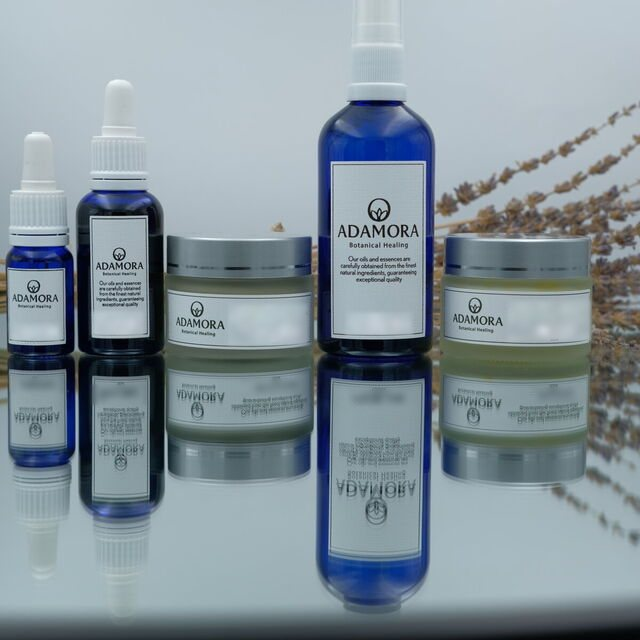
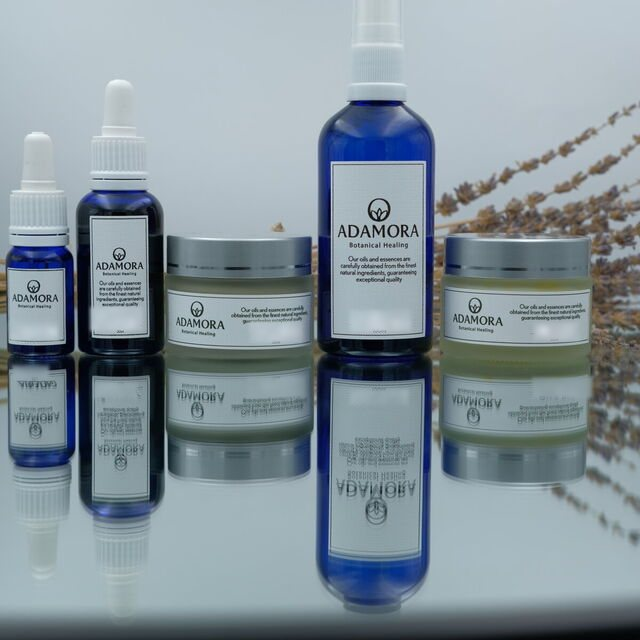
23.11 לילה: מטופלות מספרות בעיצוב של Foresta (Framer), הסרטון בראש הקליניקה, תמונות חדשות ביוגה ובעליי, מחיקת כתב היד בלבד על התוויות
Claude-Session: https://claude.ai/code/session_01DATsEa2YTV6PqXaYUVN9N4

diff --git a/site/treatments.html b/site/treatments.html
@@ -24,8 +24,8 @@
 <link rel="apple-touch-icon" href="../img/apple-touch-icon.png">
 <link rel="preload" href="../fonts/assistant-hebrew.woff2" as="font" type="font/woff2" crossorigin>
 <link rel="stylesheet" href="../style.css?v=2">
-<link rel="stylesheet" href="site.css?v=25">
-<script src="site.js?v=2" defer></script>
+<link rel="stylesheet" href="site.css?v=27">
+<script src="site.js?v=4" defer></script>
 </head>
 <body>
 <a class="skip" href="#main">דילוג לתוכן הראשי</a>
@@ -49,7 +49,8 @@
       <p class="lede">כל הטיפולים מיועדים לנשים ומתבצעים בקליניקות בתל אביב ובעמק האלה, וגם בזום.</p>
       <div class="actions"><a class="btn" href="https://wa.link/64q9ls">לתיאום שיחה</a><a class="btn ghost" href="integrated.html">הטיפול המשולב</a></div>
     </div>
-    <figure class="natural"><img fetchpriority="high" width="1100" height="1955" src="../img/s26/3254-full.jpg" alt="יובל דורון אבייב, מחייכת, יושבת על כורסה כתומה"></figure>
+    <figure class="has-video clip"><video class="clip-video" muted loop playsinline preload="metadata" poster="../img/clinic-foot-poster.jpg" aria-hidden="true"><source src="../img/clinic-foot.mp4" type="video/mp4"></video>
+      <button type="button" class="vid-toggle" aria-label="הפעלת הסרטון"><span aria-hidden="true">▶</span></button></figure>
   </div>
 </section>
 
@@ -69,18 +70,16 @@
   </div>
 </section>
 
-<section style="background: var(--sand)">
-  <div class="wrap stack"><span class="secno">4.3</span>
+<section class="tsec" style="background: var(--sand)">
+  <div class="wrap stack" style="justify-items:center;text-align:center"><span class="secno">4.3</span>
     <h2>מטופלות מספרות</h2>
-    <div class="tcar"><div class="tcar-track" tabindex="0" role="region" aria-label="מטופלות מספרות — אפשר לגלול לצדדים"><div class="testi"><p>״אני מרגישה טוב עם הדגשים התזונתיים שנתת לי. זה לא כבל אותי בתפריט משעמם. ירדה לי תדירות גלי החום, אני משתמשת בטיפות ונושמת וזה נותן תחושה ממש טובה.״</p><small>גלי · הגיעה לטיפול נטורופתי</small></div><div class="testi"><p>״אחרי חודשיים של ליווי ארומתרפי עם יובל, לא חשבתי אף פעם על טיפול מהסוג הזה והופתעתי לגלות כמה מועיל הוא היה ואיזה שינוי הוא עשה לי פיזית ופנימית גם בגוף וגם בחשיבה. הרגשתי שכל מוצר רקחת בהמון מחשבה, השקעה ואהבה. היה לך חשוב לדייק איתי את הטיפול ולהתאים לי את מה שאני מתחברת אליו וגם זה באמת עבד אחרי לא הרבה זמן! הרגשתי יותר יציבה, מאוזנת ורגועה. תודה!״</p><small>שרון · הגיעה לטיפול ארומתרפי</small></div><div class="testi"><p>״יובל הגיעה לחיי בטיימינג מושלם בזמן שהייתי בין בדיקות רפואיות וקבלת תרופות. הרגשתי בתוכי שאולי צריך להתייחס גם לעולם שבפנים. הצלחתי להכניס הרבה יותר רוגע וטוב לשגרה ואני משתדלת לתת מקום לאופציה הטבעית שעושה פלאים. היחס הכי אישי ואכפתי תודה!״</p><small>שקד · הגיעה לטיפול נטורופתי</small></div><div class="testi"><p>״ישנתי לילה רצוף פעם ראשונה אחרי הרבה מאוד זמן בזכות הטיפות שקיבלתי ממך. מודה לך״</p><small>רונה · הגיעה לטיפול בפרחי באך</small></div><div class="testi"><p>״לא יודעת איך להודות לך, בחיי את לא מבינה מה זה עשה לי היום, אני בן אדם אחר, איזה עוצמות מטורפות!״</p><small>עדן · הגיעה לטיפול רייקי</small></div><div class="testi"><p>״היי יובל. רציתי להגיד לך שחל שיפור ממש מאז הטיפול ביום ראשון. העצירות עברה לי, מרגישה טוב יותר ומשוחררת יותר, ממש מאותו היום הכל התאזן!״</p><small>אלה · הגיעה לטיפול רפלקסולוגי</small></div><div class="testi"><p>״בשבוע אחד ראיתי שינוי מטורף באקנה שלי. הפנים נקיות והמוצרים מדהימים! בימים האחרונים פשוט לא יוצאים פצעים חדשים. אפילו בווסת לא יצא פצע אחד, זה בחיים לא קרה.״</p><small>לי · הגיעה לטיפול ארומתרפי</small></div><div class="testi"><p>״אני חייבת לשתף אותך שאני מתמידה לקחת את פרחי הבאך כל יום 3 פעמים. מרגישה נינוחה ורגועה יותר, באנרגיות טובות יותר! אני בעבודה בלחץ פי מליון ועדיין מצליחה לשמור על רוגע יחסית אז תודה לך״</p><small>נועה · הגיעה לטיפול בפרחי באך</small></div><div class="testi"><p>״זה עבד כמו קסם! חודשים ניסיתי להיפטר מהקשקשים ואף שמפו לא עזר עד שקיבלתי את בקבוקון הקסם שלך. תוך שלושה שבועות הכל עבר. וגם השיער יותר נעים כל פעם אחרי שאני משתמש בשמן. תודה!״</p><small>אלון · הגיע לטיפול ארומתרפי</small></div><div class="testi"><p>״רציתי להגיד לך שהמחזור שלי כל כך שונה ופחות נוראי מאז שיש לי את השמן שלך! אני בדרך כלל סובלת מאוד וזה כל כך עזר לי הפעם״</p><small>נעם · הגיעה לטיפול ארומתרפי</small></div><div class="testi"><p>״רציתי להגיד לך שתוך יומיים הידיים שלי השתפרו בטירוף! כל הנפיחות ירדה, האדמומיות נעלמה והיובש ממש משתפר. מזל שניסיתי קודם את קרם הידיים שלך ולא ישר שמתי את הקורטיזון.״</p><small>מאי · הגיעה לטיפול ארומתרפי</small></div><div class="testi"><p>״חייבת לעדכן אותך שהשתמשתי בלילות האחרונים בשמן שקיבלנו במתנה בסדנה שלך וההשפעה שלו ממש ניכרת. אני כבר תקופה ארוכה סובלת מחריקות שיניים בלילה ובימים האחרונים זה נעלם. מודה שהייתי סקפטית לגבי זה וממש שמחתי לגלות שטעיתי ושזה עוזר! תודה!״</p><small>נעמה · הגיעה לסדנת ארומתרפיה</small></div><div class="testi"><p>״אני מרגישה נורא לחוצה בגלל המבחן הבא ואחרי המקלחת שמתי את שמן הגוף והדלקתי מבער עם השמנים שרקחת לי. זה ממש משפר לי את ההרגשה״</p><small>שי · הגיעה לטיפול ארומתרפי</small></div></div><div class="tcar-nav"><button type="button" class="tcar-prev" aria-label="להמלצה הקודמת"><svg viewBox="0 0 24 24" width="20" height="20" aria-hidden="true" focusable="false"><path d="M9 5l7 7-7 7" fill="none" stroke="currentColor" stroke-width="1.8" stroke-linecap="round" stroke-linejoin="round"/></svg></button><button type="button" class="tcar-next" aria-label="להמלצה הבאה"><svg viewBox="0 0 24 24" width="20" height="20" aria-hidden="true" focusable="false"><path d="M15 5l-7 7 7 7" fill="none" stroke="currentColor" stroke-width="1.8" stroke-linecap="round" stroke-linejoin="round"/></svg></button></div></div>
   </div>
+  <div class="tcar"><div class="tcar-track" tabindex="0" role="region" aria-label="מטופלות מספרות — אפשר לגלול לצדדים"><div class="testi"><p>״אני מרגישה טוב עם הדגשים התזונתיים שנתת לי. זה לא כבל אותי בתפריט משעמם. ירדה לי תדירות גלי החום, אני משתמשת בטיפות ונושמת וזה נותן תחושה ממש טובה.״</p><small>גלי · הגיעה לטיפול נטורופתי</small></div><div class="testi"><p>״אחרי חודשיים של ליווי ארומתרפי עם יובל, לא חשבתי אף פעם על טיפול מהסוג הזה והופתעתי לגלות כמה מועיל הוא היה ואיזה שינוי הוא עשה לי פיזית ופנימית גם בגוף וגם בחשיבה. הרגשתי שכל מוצר רקחת בהמון מחשבה, השקעה ואהבה. היה לך חשוב לדייק איתי את הטיפול ולהתאים לי את מה שאני מתחברת אליו וגם זה באמת עבד אחרי לא הרבה זמן! הרגשתי יותר יציבה, מאוזנת ורגועה. תודה!״</p><small>שרון · הגיעה לטיפול ארומתרפי</small></div><div class="testi"><p>״יובל הגיעה לחיי בטיימינג מושלם בזמן שהייתי בין בדיקות רפואיות וקבלת תרופות. הרגשתי בתוכי שאולי צריך להתייחס גם לעולם שבפנים. הצלחתי להכניס הרבה יותר רוגע וטוב לשגרה ואני משתדלת לתת מקום לאופציה הטבעית שעושה פלאים. היחס הכי אישי ואכפתי תודה!״</p><small>שקד · הגיעה לטיפול נטורופתי</small></div><div class="testi"><p>״ישנתי לילה רצוף פעם ראשונה אחרי הרבה מאוד זמן בזכות הטיפות שקיבלתי ממך. מודה לך״</p><small>רונה · הגיעה לטיפול בפרחי באך</small></div><div class="testi"><p>״לא יודעת איך להודות לך, בחיי את לא מבינה מה זה עשה לי היום, אני בן אדם אחר, איזה עוצמות מטורפות!״</p><small>עדן · הגיעה לטיפול רייקי</small></div><div class="testi"><p>״היי יובל. רציתי להגיד לך שחל שיפור ממש מאז הטיפול ביום ראשון. העצירות עברה לי, מרגישה טוב יותר ומשוחררת יותר, ממש מאותו היום הכל התאזן!״</p><small>אלה · הגיעה לטיפול רפלקסולוגי</small></div><div class="testi"><p>״בשבוע אחד ראיתי שינוי מטורף באקנה שלי. הפנים נקיות והמוצרים מדהימים! בימים האחרונים פשוט לא יוצאים פצעים חדשים. אפילו בווסת לא יצא פצע אחד, זה בחיים לא קרה.״</p><small>לי · הגיעה לטיפול ארומתרפי</small></div><div class="testi"><p>״אני חייבת לשתף אותך שאני מתמידה לקחת את פרחי הבאך כל יום 3 פעמים. מרגישה נינוחה ורגועה יותר, באנרגיות טובות יותר! אני בעבודה בלחץ פי מליון ועדיין מצליחה לשמור על רוגע יחסית אז תודה לך״</p><small>נועה · הגיעה לטיפול בפרחי באך</small></div><div class="testi"><p>״זה עבד כמו קסם! חודשים ניסיתי להיפטר מהקשקשים ואף שמפו לא עזר עד שקיבלתי את בקבוקון הקסם שלך. תוך שלושה שבועות הכל עבר. וגם השיער יותר נעים כל פעם אחרי שאני משתמש בשמן. תודה!״</p><small>אלון · הגיע לטיפול ארומתרפי</small></div><div class="testi"><p>״רציתי להגיד לך שהמחזור שלי כל כך שונה ופחות נוראי מאז שיש לי את השמן שלך! אני בדרך כלל סובלת מאוד וזה כל כך עזר לי הפעם״</p><small>נעם · הגיעה לטיפול ארומתרפי</small></div><div class="testi"><p>״רציתי להגיד לך שתוך יומיים הידיים שלי השתפרו בטירוף! כל הנפיחות ירדה, האדמומיות נעלמה והיובש ממש משתפר. מזל שניסיתי קודם את קרם הידיים שלך ולא ישר שמתי את הקורטיזון.״</p><small>מאי · הגיעה לטיפול ארומתרפי</small></div><div class="testi"><p>״חייבת לעדכן אותך שהשתמשתי בלילות האחרונים בשמן שקיבלנו במתנה בסדנה שלך וההשפעה שלו ממש ניכרת. אני כבר תקופה ארוכה סובלת מחריקות שיניים בלילה ובימים האחרונים זה נעלם. מודה שהייתי סקפטית לגבי זה וממש שמחתי לגלות שטעיתי ושזה עוזר! תודה!״</p><small>נעמה · הגיעה לסדנת ארומתרפיה</small></div><div class="testi"><p>״אני מרגישה נורא לחוצה בגלל המבחן הבא ואחרי המקלחת שמתי את שמן הגוף והדלקתי מבער עם השמנים שרקחת לי. זה ממש משפר לי את ההרגשה״</p><small>שי · הגיעה לטיפול ארומתרפי</small></div></div><div class="tcar-nav"><button type="button" class="tcar-prev" aria-label="להמלצה הקודמת"><svg viewBox="0 0 24 24" width="20" height="20" aria-hidden="true" focusable="false"><path d="M9 5l7 7-7 7" fill="none" stroke="currentColor" stroke-width="1.8" stroke-linecap="round" stroke-linejoin="round"/></svg></button><button type="button" class="tcar-next" aria-label="להמלצה הבאה"><svg viewBox="0 0 24 24" width="20" height="20" aria-hidden="true" focusable="false"><path d="M15 5l-7 7 7 7" fill="none" stroke="currentColor" stroke-width="1.8" stroke-linecap="round" stroke-linejoin="round"/></svg></button></div></div>
 </section>
 
 <section>
-  <div class="wrap faq-pair"><span class="secno">4.4</span>
-    <figure class="has-video clip"><video class="clip-video" muted loop playsinline preload="none" poster="../img/clinic-foot-poster.jpg" aria-hidden="true"><source src="../img/clinic-foot.mp4" type="video/mp4"></video>
-      <button type="button" class="vid-toggle" aria-label="הפעלת הסרטון"><span aria-hidden="true">▶</span></button></figure>
-    <div class="stack">
+  <div class="wrap"><span class="secno">4.4</span>
+    <div class="stack" style="max-width:760px">
     <h2>שאלות ותשובות</h2>
     <div>
       <details open><summary>איך בוחרים טיפול?</summary><p>בוחרות יחד. אנחנו מתחילות בשיחה קצרה, ומשם אני מציעה מה מתאים — לפעמים טיפול אחד, לפעמים שילוב.</p></details>

diff --git a/site/yoga.html b/site/yoga.html
@@ -24,8 +24,8 @@
 <link rel="apple-touch-icon" href="../img/apple-touch-icon.png">
 <link rel="preload" href="../fonts/assistant-hebrew.woff2" as="font" type="font/woff2" crossorigin>
 <link rel="stylesheet" href="../style.css?v=2">
-<link rel="stylesheet" href="site.css?v=25">
-<script src="site.js?v=2" defer></script>
+<link rel="stylesheet" href="site.css?v=27">
+<script src="site.js?v=4" defer></script>
 </head>
 <body>
 <a class="skip" href="#main">דילוג לתוכן הראשי</a>
@@ -62,7 +62,7 @@
       <article class="door"><img loading="lazy" width="700" height="525" src="../img/y-08-16.jpg" alt="האטה יוגה"><div class="body"><h3>האטה יוגה</h3><p>סגנון מדויק ועדין, המתאים לכל גיל ורמה. בתרגול הפיזי התנוחות מתבצעות בקצב איטי, תוך הקשבה לגוף והעמקת המודעות. הדגש הוא על יציבה נכונה, גמישות, חיזוק והרפיה, בשילוב טכניקות נשימה מודעת.</p><a class="btn small ghost" href="workshops.html#lead">להזמנת סדנה</a></div></article>
       <article class="door"><img loading="lazy" width="700" height="700" src="../img/y-11-12.jpg" alt="יוגה תרפיה"><div class="body"><h3>יוגה תרפיה</h3><p>משלבת את חכמת היוגה העתיקה עם הבנה מעמיקה של הגוף. מתאימה במיוחד למתמודדות עם כאבים, מתח, חרדה או אתגרים פיזיים ורגשיים אחרים. כל מפגש מותאם לצרכים האישיים של המתרגלת.</p><a class="btn small ghost" href="workshops.html#lead">להזמנת סדנה</a></div></article>
       <article class="door"><img width="700" height="525" src="../img/y-11-18.jpg" alt="יובל מעבירה מפגש לקבוצה בגיל השלישי" loading="lazy"><div class="body"><h3>יוגה על כיסא</h3><p>תרגול נגיש ועדין שמתבצע ברובו או בכולו בישיבה על כיסא, לפי יכולות המשתתפים. לשיפור יציבות ושיווי משקל, שיפור טווחי תנועה וגמישות, הפחתת מתחים ונשימה מודעת.</p><p class="small">תרגול בקבוצה קבועה — למשל במועדון הוותיקים.</p><a class="btn small ghost" href="workshops.html#lead">להזמנת סדנה</a></div></article>
-      <article class="door"><img width="1200" height="800" src="../img/yoga-smile.jpg" alt="יובל בתרגול יוגה" loading="lazy"><div class="body"><h3>תרגול אישי</h3><p>בתרגול אישי יש מקום לדברים שדורשים תשומת לב אישית — כאב או פציעה מסוימים, מחלה כרונית או מצב רפואי, ומה שחשוב לך לעבוד עליו. כל שיעור נבנה סביב הגוף שלך ומה שהוא צריך באותו יום.</p><p class="small"><b>על מה נעבוד יחד:</b> שיפור היציבה והגמישות · הפחתת מתחים וכאבים · העמקת הקשר בין הגוף והנפש · למידת כלים לאיזון והרגעה · פיתוח תרגול אישי מותאם לך.</p><p class="small">לנשים, באזור עמק האלה — אצלי או בבית המתרגלת — וגם בקליניקה שלי בתל אביב.</p><a class="btn small" href="https://wa.link/64q9ls">לתיאום תרגול אישי</a></div></article>
+      <article class="door"><img width="1200" height="800" src="../img/yoga-personal.jpg" alt="יובל מריחה שמן מכפות ידיה, בגינה" loading="lazy"><div class="body"><h3>תרגול אישי</h3><p>בתרגול אישי יש מקום לדברים שדורשים תשומת לב אישית — כאב או פציעה מסוימים, מחלה כרונית או מצב רפואי, ומה שחשוב לך לעבוד עליו. כל שיעור נבנה סביב הגוף שלך ומה שהוא צריך באותו יום.</p><p class="small"><b>על מה נעבוד יחד:</b> שיפור היציבה והגמישות · הפחתת מתחים וכאבים · העמקת הקשר בין הגוף והנפש · למידת כלים לאיזון והרגעה · פיתוח תרגול אישי מותאם לך.</p><p class="small">לנשים, באזור עמק האלה — אצלי או בבית המתרגלת — וגם בקליניקה שלי בתל אביב.</p><a class="btn small" href="https://wa.link/64q9ls">לתיאום תרגול אישי</a></div></article>
     </div>
   </div>
 </section>

diff --git a/site/ריפוי-דרך-כפות-הרגליים/index.html b/site/ריפוי-דרך-כפות-הרגליים/index.html
@@ -26,8 +26,8 @@
 <link rel="apple-touch-icon" href="../../img/apple-touch-icon.png">
 <link rel="preload" href="../../fonts/assistant-hebrew.woff2" as="font" type="font/woff2" crossorigin>
 <link rel="stylesheet" href="../../style.css?v=2">
-<link rel="stylesheet" href="../site.css?v=25">
-<script src="../site.js?v=2" defer></script>
+<link rel="stylesheet" href="../site.css?v=27">
+<script src="../site.js?v=4" defer></script>
 <script type="application/ld+json">{"@context": "https://schema.org", "@type": "BlogPosting", "headline": "ריפוי דרך כפות הרגליים: איך טיפול רפלקסולוגי מחזיר את הגוף לאיזון?", "description": "טיפול רפלקסולוגיה הוא דרך טבעית, עמוקה ונעימה לעזור לגוף לעצור, לפרוק מתחים ולהפעיל מחדש את מנגנוני הריפוי הטבעיים שלו – וגם תרגיל ביתי קטן להרגעה.", "inLanguage": "he", "mainEntityOfPage": "https://adamora.co.il/%D7%A8%D7%99%D7%A4%D7%95%D7%99-%D7%93%D7%A8%D7%9A-%D7%9B%D7%A4%D7%95%D7%AA-%D7%94%D7%A8%D7%92%D7%9C%D7%99%D7%99%D7%9D/", "url": "https://adamora.co.il/%D7%A8%D7%99%D7%A4%D7%95%D7%99-%D7%93%D7%A8%D7%9A-%D7%9B%D7%A4%D7%95%D7%AA-%D7%94%D7%A8%D7%92%D7%9C%D7%99%D7%99%D7%9D/", "image": ["https://adamora.co.il/img/art/reflex-og.jpg", "https://adamora.co.il/img/art/reflex.jpg"], "datePublished": "2025-04-24T08:54:03+00:00", "dateModified": "2026-11-15T20:00:00+02:00", "author": {"@type": "Person", "@id": "https://adamora.co.il/about.html#yuval", "name": "יובל דורון אבייב", "url": "https://adamora.co.il/about.html", "jobTitle": "נטורופתית מוסמכת, מטפלת הוליסטית, מורה ליוגה ומנחת סדנאות"}, "publisher": {"@type": "Organization", "@id": "https://adamora.co.il/#org", "name": "אדמורה", "alternateName": "Adamora", "url": "https://adamora.co.il/", "logo": {"@type": "ImageObject", "url": "https://adamora.co.il/img/logo-h.png"}}, "about": {"@type": "Thing", "name": "רפלקסולוגיה"}}</script>
 <script type="application/ld+json">{"@context": "https://schema.org", "@type": "BreadcrumbList", "itemListElement": [{"@type": "ListItem", "position": 1, "name": "דף הבית", "item": "https://adamora.co.il/"}, {"@type": "ListItem", "position": 2, "name": "בלוג", "item": "https://adamora.co.il/blog.html"}, {"@type": "ListItem", "position": 3, "name": "ריפוי דרך כפות הרגליים: איך טיפול רפלקסולוגי מחזיר את הגוף לאיזון?", "item": "https://adamora.co.il/%D7%A8%D7%99%D7%A4%D7%95%D7%99-%D7%93%D7%A8%D7%9A-%D7%9B%D7%A4%D7%95%D7%AA-%D7%94%D7%A8%D7%92%D7%9C%D7%99%D7%99%D7%9D/"}]}</script>
 </head>

diff --git a/site/ארומתרפיה-והפרעות-קשב-וריכוז/index.html b/site/ארומתרפיה-והפרעות-קשב-וריכוז/index.html
@@ -26,8 +26,8 @@
 <link rel="apple-touch-icon" href="../../img/apple-touch-icon.png">
 <link rel="preload" href="../../fonts/assistant-hebrew.woff2" as="font" type="font/woff2" crossorigin>
 <link rel="stylesheet" href="../../style.css?v=2">
-<link rel="stylesheet" href="../site.css?v=25">
-<script src="../site.js?v=2" defer></script>
+<link rel="stylesheet" href="../site.css?v=27">
+<script src="../site.js?v=4" defer></script>
 <script type="application/ld+json">{"@context": "https://schema.org", "@type": "BlogPosting", "headline": "מבט ארומתרפי על קשב וריכוז", "description": "פעמים רבות, המפתח לריכוז הוא דווקא הרגעה. מבט ארומתרפי על קשב וריכוז אצל ילדים, סטודנטים ומבוגרים – ואיך משלבים שמנים אתריים בשגרת היומיום.", "inLanguage": "he", "mainEntityOfPage": "https://adamora.co.il/%D7%90%D7%A8%D7%95%D7%9E%D7%AA%D7%A8%D7%A4%D7%99%D7%94-%D7%95%D7%94%D7%A4%D7%A8%D7%A2%D7%95%D7%AA-%D7%A7%D7%A9%D7%91-%D7%95%D7%A8%D7%99%D7%9B%D7%95%D7%96/", "url": "https://adamora.co.il/%D7%90%D7%A8%D7%95%D7%9E%D7%AA%D7%A8%D7%A4%D7%99%D7%94-%D7%95%D7%94%D7%A4%D7%A8%D7%A2%D7%95%D7%AA-%D7%A7%D7%A9%D7%91-%D7%95%D7%A8%D7%99%D7%9B%D7%95%D7%96/", "image": ["https://adamora.co.il/img/art/adhd-og.jpg", "https://adamora.co.il/img/art/adhd.jpg"], "datePublished": "2025-04-24T08:13:16+00:00", "dateModified": "2026-11-15T20:00:00+02:00", "author": {"@type": "Person", "@id": "https://adamora.co.il/about.html#yuval", "name": "יובל דורון אבייב", "url": "https://adamora.co.il/about.html", "jobTitle": "נטורופתית מוסמכת, מטפלת הוליסטית, מורה ליוגה ומנחת סדנאות"}, "publisher": {"@type": "Organization", "@id": "https://adamora.co.il/#org", "name": "אדמורה", "alternateName": "Adamora", "url": "https://adamora.co.il/", "logo": {"@type": "ImageObject", "url": "https://adamora.co.il/img/logo-h.png"}}, "about": {"@type": "Thing", "name": "ארומתרפיה"}}</script>
 <script type="application/ld+json">{"@context": "https://schema.org", "@type": "BreadcrumbList", "itemListElement": [{"@type": "ListItem", "position": 1, "name": "דף הבית", "item": "https://adamora.co.il/"}, {"@type": "ListItem", "position": 2, "name": "בלוג", "item": "https://adamora.co.il/blog.html"}, {"@type": "ListItem", "position": 3, "name": "מבט ארומתרפי על קשב וריכוז", "item": "https://adamora.co.il/%D7%90%D7%A8%D7%95%D7%9E%D7%AA%D7%A8%D7%A4%D7%99%D7%94-%D7%95%D7%94%D7%A4%D7%A8%D7%A2%D7%95%D7%AA-%D7%A7%D7%A9%D7%91-%D7%95%D7%A8%D7%99%D7%9B%D7%95%D7%96/"}]}</script>
 </head>

diff --git a/site/site.css b/site/site.css
@@ -355,12 +355,21 @@ footer .wrap > span:last-child{order:0}
 .car-nav button,.tcar-nav button{width:48px;height:48px;border-radius:999px;border:1px solid var(--line);background:var(--card);color:var(--forest);cursor:pointer;display:grid;place-items:center;box-shadow:0 2px 10px rgba(16,68,4,.08);transition:background-color .2s,color .2s,border-color .2s}
 .car-nav button:hover,.tcar-nav button:hover{background:var(--forest);color:#fff;border-color:var(--forest)}
 /* clinic testimonials: one in front, the neighbours faded at the sides */
-.tcar-track{display:flex;align-items:flex-start;gap:18px;overflow-x:auto;scroll-snap-type:x mandatory;scrollbar-width:none;padding:8px calc((100% - min(560px,84%)) / 2) 12px;-webkit-overflow-scrolling:touch}
+/* clinic testimonials — modelled on the Foresta Framer template (foresttherapy.framer.ai): white rounded cards in a row,
+   the middle three full, the outer ones smaller and faded, running off both edges of the page */
+.tsec{overflow:hidden}
+.tcar{margin-top:28px}
+.tcar-track{display:flex;align-items:center;gap:24px;overflow-x:auto;scroll-snap-type:x mandatory;scrollbar-width:none;padding:8px calc(50% - 160px) 16px;-webkit-overflow-scrolling:touch}
 .tcar-track::-webkit-scrollbar{display:none}
 .tcar-track:focus-visible{outline:2px solid var(--forest);outline-offset:4px;border-radius:14px}
-.tcar .testi{flex:0 0 min(560px,84%);scroll-snap-align:center;opacity:.35;transform:scale(.94);transition:opacity .35s,transform .35s;cursor:pointer}
-.tcar .testi.on{opacity:1;transform:none;cursor:auto}
-.tcar-nav{display:flex;justify-content:center;gap:12px;margin-top:6px}
+.tcar .testi{flex:0 0 320px;scroll-snap-align:center;border:0;border-radius:32px;padding:32px;font-size:16px;line-height:1.55;color:var(--ink-soft);gap:16px;opacity:.6;transform:scale(.8);transition:opacity .35s,transform .35s;cursor:pointer}
+.tcar .testi p{margin:0}
+.tcar .testi small{color:var(--ink);font-weight:600;font-size:15px}
+.tcar .testi.on,.tcar .testi.near{opacity:1;transform:none}
+.tcar .testi.on{cursor:auto}
+@media (max-width:760px){.tcar .testi{flex-basis:min(280px,72vw)}.tcar-track{padding-inline:calc(50% - min(140px,36vw))}.tcar .testi.near{opacity:.6;transform:scale(.8)}}
+.tcar-nav{display:flex;justify-content:center;gap:12px;margin-top:20px}
+.hero figure.clip{width:100%;max-width:320px;justify-self:center}
 @media (prefers-reduced-motion:reduce){.tcar .testi{transition:none}}
 /* workshops: the client logos as their own block, with room above and below */
 .clients{background:var(--sand);padding-block:56px}

diff --git a/site/מבט-הוליסטי-על-אקנה/index.html b/site/מבט-הוליסטי-על-אקנה/index.html
@@ -26,8 +26,8 @@
 <link rel="apple-touch-icon" href="../../img/apple-touch-icon.png">
 <link rel="preload" href="../../fonts/assistant-hebrew.woff2" as="font" type="font/woff2" crossorigin>
 <link rel="stylesheet" href="../../style.css?v=2">
-<link rel="stylesheet" href="../site.css?v=25">
-<script src="../site.js?v=2" defer></script>
+<link rel="stylesheet" href="../site.css?v=27">
+<script src="../site.js?v=4" defer></script>
 <script type="application/ld+json">{"@context": "https://schema.org", "@type": "BlogPosting", "headline": "מבט הוליסטי על אקנה: מה העור שלך מנסה לספר?", "description": "אקנה היא ממש לא רק \"בעיה של גיל ההתבגרות\". מבט נטורופתי והוליסטי על מה שמשפיע על העור מבפנים – הורמונים, תזונה וסטרס – ואיך נראה טיפול טבעי.", "inLanguage": "he", "mainEntityOfPage": "https://adamora.co.il/%D7%9E%D7%91%D7%98-%D7%94%D7%95%D7%9C%D7%99%D7%A1%D7%98%D7%99-%D7%A2%D7%9C-%D7%90%D7%A7%D7%A0%D7%94/", "url": "https://adamora.co.il/%D7%9E%D7%91%D7%98-%D7%94%D7%95%D7%9C%D7%99%D7%A1%D7%98%D7%99-%D7%A2%D7%9C-%D7%90%D7%A7%D7%A0%D7%94/", "image": ["https://adamora.co.il/img/art/acne-og.jpg", "https://adamora.co.il/img/art/acne.jpg"], "datePublished": "2025-04-24T09:07:02+00:00", "dateModified": "2026-11-15T20:00:00+02:00", "author": {"@type": "Person", "@id": "https://adamora.co.il/about.html#yuval", "name": "יובל דורון אבייב", "url": "https://adamora.co.il/about.html", "jobTitle": "נטורופתית מוסמכת, מטפלת הוליסטית, מורה ליוגה ומנחת סדנאות"}, "publisher": {"@type": "Organization", "@id": "https://adamora.co.il/#org", "name": "אדמורה", "alternateName": "Adamora", "url": "https://adamora.co.il/", "logo": {"@type": "ImageObject", "url": "https://adamora.co.il/img/logo-h.png"}}, "about": {"@type": "Thing", "name": "נטורופתיה"}}</script>
 <script type="application/ld+json">{"@context": "https://schema.org", "@type": "BreadcrumbList", "itemListElement": [{"@type": "ListItem", "position": 1, "name": "דף הבית", "item": "https://adamora.co.il/"}, {"@type": "ListItem", "position": 2, "name": "בלוג", "item": "https://adamora.co.il/blog.html"}, {"@type": "ListItem", "position": 3, "name": "מבט הוליסטי על אקנה: מה העור שלך מנסה לספר?", "item": "https://adamora.co.il/%D7%9E%D7%91%D7%98-%D7%94%D7%95%D7%9C%D7%99%D7%A1%D7%98%D7%99-%D7%A2%D7%9C-%D7%90%D7%A7%D7%A0%D7%94/"}]}</script>
 </head>

diff --git a/site/המדע-מאחורי-ריברסינג-איך-נשימה-משנה-את/index.html b/site/המדע-מאחורי-ריברסינג-איך-נשימה-משנה-את/index.html
@@ -26,8 +26,8 @@
 <link rel="apple-touch-icon" href="../../img/apple-touch-icon.png">
 <link rel="preload" href="../../fonts/assistant-hebrew.woff2" as="font" type="font/woff2" crossorigin>
 <link rel="stylesheet" href="../../style.css?v=2">
-<link rel="stylesheet" href="../site.css?v=25">
-<script src="../site.js?v=2" defer></script>
+<link rel="stylesheet" href="../site.css?v=27">
+<script src="../site.js?v=4" defer></script>
 <script type="application/ld+json">{"@context": "https://schema.org", "@type": "BlogPosting", "headline": "המדע מאחורי ריברסינג: איך נשימה משנה את הכימיה של הגוף", "description": "ריברסינג אינו רק תרגול רוחני או חוויית שחרור רגשית — יש לו גם בסיס מדעי שמשפיע ישירות על הכימיה של הגוף. עדן אבייב, כותב אורח.", "inLanguage": "he", "mainEntityOfPage": "https://adamora.co.il/%D7%94%D7%9E%D7%93%D7%A2-%D7%9E%D7%90%D7%97%D7%95%D7%A8%D7%99-%D7%A8%D7%99%D7%91%D7%A8%D7%A1%D7%99%D7%A0%D7%92-%D7%90%D7%99%D7%9A-%D7%A0%D7%A9%D7%99%D7%9E%D7%94-%D7%9E%D7%A9%D7%A0%D7%94-%D7%90%D7%AA/", "url": "https://adamora.co.il/%D7%94%D7%9E%D7%93%D7%A2-%D7%9E%D7%90%D7%97%D7%95%D7%A8%D7%99-%D7%A8%D7%99%D7%91%D7%A8%D7%A1%D7%99%D7%A0%D7%92-%D7%90%D7%99%D7%9A-%D7%A0%D7%A9%D7%99%D7%9E%D7%94-%D7%9E%D7%A9%D7%A0%D7%94-%D7%90%D7%AA/", "image": ["https://adamora.co.il/img/og-default.jpg"], "datePublished": "2025-02-05T09:27:13+02:00", "dateModified": "2025-02-05T09:27:14+02:00", "author": {"@type": "Person", "name": "עדן אבייב", "url": "https://www.abay.co.il/"}, "publisher": {"@type": "Organization", "@id": "https://adamora.co.il/#org", "name": "אדמורה", "url": "https://adamora.co.il/", "logo": {"@type": "ImageObject", "url": "https://adamora.co.il/img/logo-h.png"}}}</script>
 <script type="application/ld+json">{"@context": "https://schema.org", "@type": "BreadcrumbList", "itemListElement": [{"@type": "ListItem", "position": 1, "name": "דף הבית", "item": "https://adamora.co.il/"}, {"@type": "ListItem", "position": 2, "name": "בלוג", "item": "https://adamora.co.il/blog.html"}, {"@type": "ListItem", "position": 3, "name": "המדע מאחורי ריברסינג: איך נשימה משנה את הכימיה של הגוף", "item": "https://adamora.co.il/%D7%94%D7%9E%D7%93%D7%A2-%D7%9E%D7%90%D7%97%D7%95%D7%A8%D7%99-%D7%A8%D7%99%D7%91%D7%A8%D7%A1%D7%99%D7%A0%D7%92-%D7%90%D7%99%D7%9A-%D7%A0%D7%A9%D7%99%D7%9E%D7%94-%D7%9E%D7%A9%D7%A0%D7%94-%D7%90%D7%AA/"}]}</script>
 </head>

diff --git a/site/כוחם-המרפא-של-פרחי-באך/index.html b/site/כוחם-המרפא-של-פרחי-באך/index.html
@@ -26,8 +26,8 @@
 <link rel="apple-touch-icon" href="../../img/apple-touch-icon.png">
 <link rel="preload" href="../../fonts/assistant-hebrew.woff2" as="font" type="font/woff2" crossorigin>
 <link rel="stylesheet" href="../../style.css?v=2">
-<link rel="stylesheet" href="../site.css?v=25">
-<script src="../site.js?v=2" defer></script>
+<link rel="stylesheet" href="../site.css?v=27">
+<script src="../site.js?v=4" defer></script>
 <script type="application/ld+json">{"@context": "https://schema.org", "@type": "BlogPosting", "headline": "כשהראש לא מפסיק לרוץ", "description": "לפעמים נדמה לך שרק אצלך הראש עובד שעות נוספות. מהם פרחי באך, איך הם עובדים, ולמה רוב הסיכויים שכבר השתמשת בהם.", "inLanguage": "he", "mainEntityOfPage": "https://adamora.co.il/%D7%9B%D7%95%D7%97%D7%9D-%D7%94%D7%9E%D7%A8%D7%A4%D7%90-%D7%A9%D7%9C-%D7%A4%D7%A8%D7%97%D7%99-%D7%91%D7%90%D7%9A/", "url": "https://adamora.co.il/%D7%9B%D7%95%D7%97%D7%9D-%D7%94%D7%9E%D7%A8%D7%A4%D7%90-%D7%A9%D7%9C-%D7%A4%D7%A8%D7%97%D7%99-%D7%91%D7%90%D7%9A/", "image": ["https://adamora.co.il/img/art/bach-og.jpg", "https://adamora.co.il/img/art/bach.jpg"], "datePublished": "2025-04-24T08:41:38+00:00", "dateModified": "2026-11-15T20:00:00+02:00", "author": {"@type": "Person", "@id": "https://adamora.co.il/about.html#yuval", "name": "יובל דורון אבייב", "url": "https://adamora.co.il/about.html", "jobTitle": "נטורופתית מוסמכת, מטפלת הוליסטית, מורה ליוגה ומנחת סדנאות"}, "publisher": {"@type": "Organization", "@id": "https://adamora.co.il/#org", "name": "אדמורה", "alternateName": "Adamora", "url": "https://adamora.co.il/", "logo": {"@type": "ImageObject", "url": "https://adamora.co.il/img/logo-h.png"}}, "about": {"@type": "Thing", "name": "פרחי באך"}}</script>
 <script type="application/ld+json">{"@context": "https://schema.org", "@type": "BreadcrumbList", "itemListElement": [{"@type": "ListItem", "position": 1, "name": "דף הבית", "item": "https://adamora.co.il/"}, {"@type": "ListItem", "position": 2, "name": "בלוג", "item": "https://adamora.co.il/blog.html"}, {"@type": "ListItem", "position": 3, "name": "כשהראש לא מפסיק לרוץ", "item": "https://adamora.co.il/%D7%9B%D7%95%D7%97%D7%9D-%D7%94%D7%9E%D7%A8%D7%A4%D7%90-%D7%A9%D7%9C-%D7%A4%D7%A8%D7%97%D7%99-%D7%91%D7%90%D7%9A/"}]}</script>
 </head>

diff --git a/site/למה-לנשום-יחד-הכוח-של-נשימה-קבוצתית/index.html b/site/למה-לנשום-יחד-הכוח-של-נשימה-קבוצתית/index.html
@@ -26,8 +26,8 @@
 <link rel="apple-touch-icon" href="../../img/apple-touch-icon.png">
 <link rel="preload" href="../../fonts/assistant-hebrew.woff2" as="font" type="font/woff2" crossorigin>
 <link rel="stylesheet" href="../../style.css?v=2">
-<link rel="stylesheet" href="../site.css?v=25">
-<script src="../site.js?v=2" defer></script>
+<link rel="stylesheet" href="../site.css?v=27">
+<script src="../site.js?v=4" defer></script>
 <script type="application/ld+json">{"@context": "https://schema.org", "@type": "BlogPosting", "headline": "למה לנשום יחד? הכוח של נשימה קבוצתית", "description": "מה קורה כשנושמים יחד, למה זה שונה מלנשום לבד, ומה קורה במפגש נשימה קבוצתי. עדן אבייב, כותב אורח.", "inLanguage": "he", "mainEntityOfPage": "https://adamora.co.il/%D7%9C%D7%9E%D7%94-%D7%9C%D7%A0%D7%A9%D7%95%D7%9D-%D7%99%D7%97%D7%93-%D7%94%D7%9B%D7%95%D7%97-%D7%A9%D7%9C-%D7%A0%D7%A9%D7%99%D7%9E%D7%94-%D7%A7%D7%91%D7%95%D7%A6%D7%AA%D7%99%D7%AA/", "url": "https://adamora.co.il/%D7%9C%D7%9E%D7%94-%D7%9C%D7%A0%D7%A9%D7%95%D7%9D-%D7%99%D7%97%D7%93-%D7%94%D7%9B%D7%95%D7%97-%D7%A9%D7%9C-%D7%A0%D7%A9%D7%99%D7%9E%D7%94-%D7%A7%D7%91%D7%95%D7%A6%D7%AA%D7%99%D7%AA/", "image": ["https://adamora.co.il/img/og-default.jpg"], "datePublished": "2025-02-04T17:42:32+02:00", "dateModified": "2025-02-04T18:30:07+02:00", "author": {"@type": "Person", "name": "עדן אבייב", "url": "https://www.abay.co.il/"}, "publisher": {"@type": "Organization", "@id": "https://adamora.co.il/#org", "name": "אדמורה", "url": "https://adamora.co.il/", "logo": {"@type": "ImageObject", "url": "https://adamora.co.il/img/logo-h.png"}}}</script>
 <script type="application/ld+json">{"@context": "https://schema.org", "@type": "BreadcrumbList", "itemListElement": [{"@type": "ListItem", "position": 1, "name": "דף הבית", "item": "https://adamora.co.il/"}, {"@type": "ListItem", "position": 2, "name": "בלוג", "item": "https://adamora.co.il/blog.html"}, {"@type": "ListItem", "position": 3, "name": "למה לנשום יחד? הכוח של נשימה קבוצתית", "item": "https://adamora.co.il/%D7%9C%D7%9E%D7%94-%D7%9C%D7%A0%D7%A9%D7%95%D7%9D-%D7%99%D7%97%D7%93-%D7%94%D7%9B%D7%95%D7%97-%D7%A9%D7%9C-%D7%A0%D7%A9%D7%99%D7%9E%D7%94-%D7%A7%D7%91%D7%95%D7%A6%D7%AA%D7%99%D7%AA/"}]}</script>
 </head>

diff --git a/site/about.html b/site/about.html
@@ -24,8 +24,8 @@
 <link rel="apple-touch-icon" href="../img/apple-touch-icon.png">
 <link rel="preload" href="../fonts/assistant-hebrew.woff2" as="font" type="font/woff2" crossorigin>
 <link rel="stylesheet" href="../style.css?v=2">
-<link rel="stylesheet" href="site.css?v=25">
-<script src="site.js?v=2" defer></script>
+<link rel="stylesheet" href="site.css?v=27">
+<script src="site.js?v=4" defer></script>
 <script type="application/ld+json">{"@context": "https://schema.org", "@type": "ProfilePage", "url": "https://adamora.co.il/about.html", "mainEntity": {"@type": "Person", "@id": "https://adamora.co.il/about.html#yuval", "name": "יובל דורון אבייב", "alternateName": "יובל אבייב-דורון", "url": "https://adamora.co.il/about.html", "jobTitle": "נטורופתית מוסמכת, מטפלת הוליסטית, מורה ליוגה ומנחת סדנאות", "image": "https://adamora.co.il/img/s26/3540-hero.jpg", "worksFor": {"@id": "https://adamora.co.il/#org"}, "knowsAbout": ["נטורופתיה", "ארומתרפיה", "רפלקסולוגיה", "פרחי באך", "רייקי", "יוגה"], "alumniOf": {"@type": "CollegeOrUniversity", "name": "מכללת רידמן לרפואה משלימה"}}}</script>
 </head>
 <body>
@@ -74,7 +74,7 @@
       <p>בחרתי ללוות בטיפולים ובשיעורים שלי נשים, מתוך רצון לאפשר שיח פתוח, קרוב ובטוח.</p>
       <p>בכל מפגש איתי – בין אם בקליניקה, בסדנה או על המזרן – אני מביאה איתי את כל הידע, הכלים והניסיון שצברתי, אבל בעיקר אוזן קשבת ולב פתוח. אני מזמינה אותך לצעוד איתי יחד, בקצב שלך, ולגלות איך אפשר להרגיש טוב יותר בגוף ובנפש בלי לוותר על החיים עצמם.</p>
     </div>
-    <img width="1000" height="1000" src="../img/s26/3399-sq.jpg" alt="יובל מחייכת, בחולצה לבנה" loading="lazy">
+    <img width="828" height="1035" class="tall" src="../img/clinic-room.jpg" alt="חדר הטיפולים בקליניקה: מיטת טיפול, מדף שמנים ותעודות על הקיר" loading="lazy">
   </div>
 </section>
 

diff --git a/site/site.js b/site/site.js
@@ -69,19 +69,19 @@
     var mark = function () {
       var r = tr.getBoundingClientRect(), mid = r.left + r.width / 2, best = 0, bd = 1e9;
       items.forEach(function (x, i) { var b = x.getBoundingClientRect(), d = Math.abs(b.left + b.width / 2 - mid); if (d < bd) { bd = d; best = i; } });
-      cur = best; items.forEach(function (x, i) { x.classList.toggle("on", i === best); });
+      cur = best; items.forEach(function (x, i) { x.classList.toggle("on", i === best); x.classList.toggle("near", Math.abs(i - best) === 1); });
     };
-    var go = function (i) {
+    var go = function (i, now) {
       i = Math.max(0, Math.min(items.length - 1, i));
       var r = tr.getBoundingClientRect(), b = items[i].getBoundingClientRect();
-      tr.scrollBy({ left: (b.left + b.width / 2) - (r.left + r.width / 2), behavior: reduce ? "auto" : "smooth" });
+      tr.scrollBy({ left: (b.left + b.width / 2) - (r.left + r.width / 2), behavior: now || reduce ? "auto" : "smooth" });
     };
     tr.addEventListener("scroll", function () { clearTimeout(tm); tm = setTimeout(mark, 60); }, { passive: true });
     var pv = c.querySelector(".tcar-prev"), nx = c.querySelector(".tcar-next");
     if (pv) pv.addEventListener("click", function () { go(cur - 1); });
     if (nx) nx.addEventListener("click", function () { go(cur + 1); });
     items.forEach(function (x, i) { x.addEventListener("click", function () { if (i !== cur) go(i); }); });
-    mark(); addEventListener("resize", mark);
+    go(Math.floor((items.length - 1) / 2), true); mark(); addEventListener("resize", mark);
   });
 
   /* lead forms continue in WhatsApp */

diff --git a/site/index.html b/site/index.html
@@ -25,8 +25,8 @@
 <link rel="preload" href="../fonts/assistant-hebrew.woff2" as="font" type="font/woff2" crossorigin>
 <link rel="preload" as="image" href="../img/clinic-reel-poster.jpg?v=4" fetchpriority="high">
 <link rel="stylesheet" href="../style.css?v=2">
-<link rel="stylesheet" href="site.css?v=25">
-<script src="site.js?v=2" defer></script>
+<link rel="stylesheet" href="site.css?v=27">
+<script src="site.js?v=4" defer></script>
 <script type="application/ld+json">{"@context": "https://schema.org", "@type": "Organization", "@id": "https://adamora.co.il/#org", "name": "אדמורה", "alternateName": "Adamora", "url": "https://adamora.co.il/", "logo": "https://adamora.co.il/img/logo-h.png", "founder": {"@type": "Person", "@id": "https://adamora.co.il/about.html#yuval", "name": "יובל דורון אבייב", "alternateName": "יובל אבייב-דורון", "url": "https://adamora.co.il/about.html", "jobTitle": "נטורופתית מוסמכת, מטפלת הוליסטית, מורה ליוגה ומנחת סדנאות"}, "areaServed": ["תל אביב", "עמק האלה"]}</script>
 <script type="application/ld+json">{"@context": "https://schema.org", "@type": "WebSite", "@id": "https://adamora.co.il/#site", "name": "אדמורה", "alternateName": ["Adamora", "אדמורה – Adamora"], "url": "https://adamora.co.il/", "inLanguage": "he", "publisher": {"@id": "https://adamora.co.il/#org"}}</script>
 </head>
